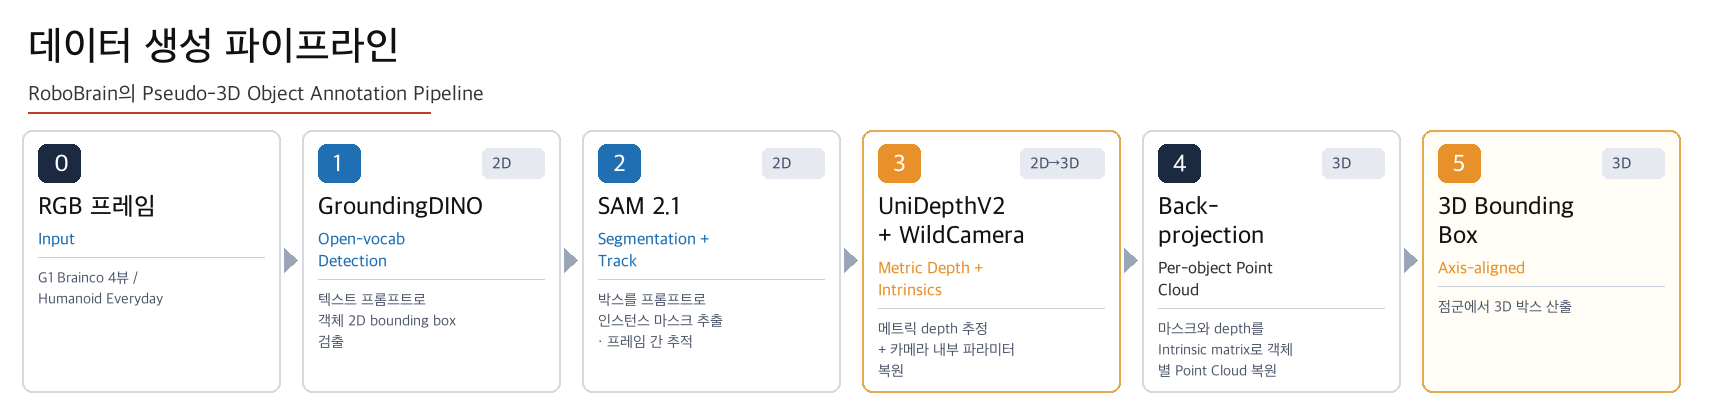
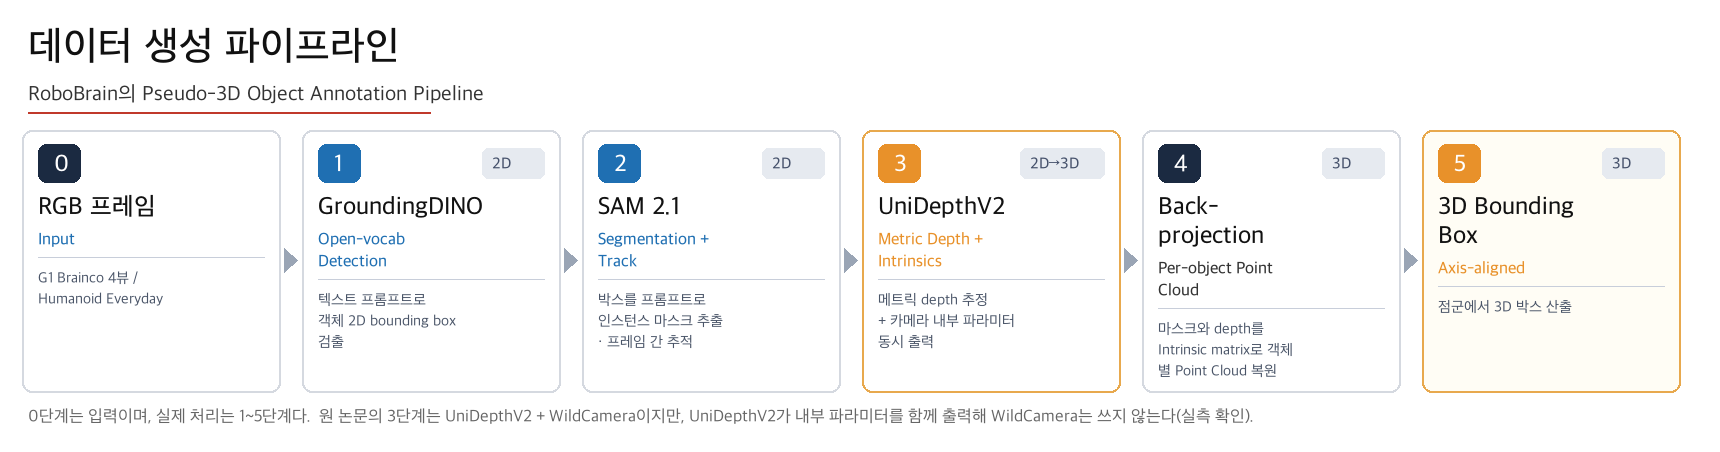
Task3 문서 정확성 수정: 리뷰 지적 10건 반영
3명의 리뷰어가 '처음 접하는 사람 / 구버전 잔재 / 문서-코드 일관성' 관점에서
검토한 결과를 반영했다.

높은 심각도 5건:
 1. 도식과 본문 모순 — 도식에는 'UniDepthV2 + WildCamera'인데 본문은 '안 쓴다'
    -> 도식을 UniDepthV2 단독으로 재생성하고 각주로 미사용 이유 명시.
       setup_env.sh의 WildCamera clone도 제거
 2. 실행 전제 부재 — ~/task3 경로·/data2 데이터·conda env가 하드코딩인데 안내 없음
    -> README에 '전제' 표 신설 (저장소 위치/데이터/conda/ffmpeg)
 3. setup_env.sh가 코드 구성표에 없고, 삭제된 smoke_test.py를 호출해 죽음
    -> 표에 추가(최초 1회 실행)하고 호출 제거
 4. 'config.py에서 조정한다'가 사실이 아님 — 러너가 import하지 않음
    -> 실제 조정 위치(run_review 상수, run_robust 환경변수)를 명시하고
       config.py는 '프리셋 정의·시간 추정 전용, 배선 예정'으로 정정
 5. 검증 결과표가 머리 카메라 값인데 39유닛 대표처럼 읽힘
    -> '머리 카메라 기준' 명시 + 손목 4개 유닛이 0%임을 표 아래 추가

중간 5건: 존재하지 않는 지표(coverage_det 등)를 '분석 스크립트 계산값'으로 표기,
라운드 표기(V_n=r_n=R_n) 대응 명시, 앵커링·시간제한의 적용 범위(R3/R4만) 명시,
improvement-log V6를 완료로 갱신, settings.md의 없는 pbs_r6.sh를 pbs_review.sh로 수정

검증: 없는 파일 참조 0건, 삭제 모듈 import 0건, 코드 10개=README 10개 항목, 문법 OK

diff --git a/task3-3dbbox-pipeline/docs/settings.md b/task3-3dbbox-pipeline/docs/settings.md
@@ -3,9 +3,14 @@
 > 파이프라인이 무엇이고 어떻게 동작하는지는 [pipeline-design.md](pipeline-design.md)에 있다.
 > 이 문서는 **값과 조정 방법**만 다룬다.
 
-## 1. 실행 설정 (`pipeline/config.py`)
+## 1. 실행 설정
 
 전체 데이터셋 적용 시 조정하는 값들이다. 알고리즘이 아니라 **처리량과 산출물 구성**을 바꾼다.
+
+> **현재 상태**: 러너는 아래 값을 직접 읽는다 —
+> `run_review.py` 상단 상수(`STRIDE`, `BC_MAX_FRAMES`, `HE_MAX_FRAMES`)와
+> `run_robust.py`의 환경변수(`BC_PER_TASK`, `HE_PER_TASK`, `FPS`, `BC_CAP`, `HE_CAP`, `CAMS`).
+> `pipeline/config.py`는 **프리셋 정의와 소요 시간 추정 전용**이며 러너와 아직 배선되지 않았다.
 
 | 항목 | 기본 | 효과 |
 |---|---|---|
@@ -32,11 +37,14 @@
 | `robust5` | 6 | 머리 2대 | 태스크당 5개 | 7.4h |
 | `visible_only` | 6 | 머리 2대 | 전수 | 78h (방식 B 없음) |
 
-```python
-from config import PRESETS, RunConfig
-cfg = PRESETS["robust3"]
-cfg = RunConfig(fps=3.0, cameras=["cam_left_high"], amodal=False)   # 직접 지정
-cfg.estimate(n_episodes=4064, avg_sec=12.8)                         # 시간 추정
+```bash
+python pipeline/config.py     # 위 표를 계산해 출력한다
+```
+
+```bash
+# 실제 실행은 환경변수로 조정한다
+BC_PER_TASK=5 HE_PER_TASK=3 FPS=6 CAMS=cam_left_high,cam_right_high \
+  python pipeline/run_robust.py rb1
 ```
 
 ## 2. 태스크별 프로파일 (`pipeline/profiles.py`)
@@ -46,14 +54,22 @@ cfg.estimate(n_episodes=4064, avg_sec=12.8)                         # 시간 추
 
 ### 기준 프로파일
 
+`R2`·`R3`·`R4`는 **각 개선 라운드에서 확정된 설정 묶음**의 이름이다
+(라운드 2·3·4 → 결과 폴더 `review/r2`·`r3`·`r4`. 최종 산출은 `review/r6`).
+
 | 옵션 | R2 (기본) | R3 | R4 |
 |---|---|---|---|
 | `filter_pct` | (10,90) | (2,98) | (10,90) |
 | `filter_mad` | 1.5 | 3.0 | 1.5 |
 | `components` | largest | same_depth | same_depth |
 | `use_distractors` | True | False | False |
+| `anchor_prop` | **False** | True | True |
+| `prop_limit_sec` | **0 (무제한)** | 0 | 1.0 |
 | `mirror_z` | False | True | True |
 | `iou_bonus` | 0.3 | 0.3 | 0.45 |
+
+전파 앵커링(`anchor_prop`)과 시간 제한(`prop_limit_sec`)은 **R3·R4 프로파일에서만** 켜진다.
+R2를 쓰는 태스크(오레오·루빅스·사과·충전기·치약·Articulated·Basic)는 적용되지 않는다.
 
 ### 태스크 지정
 
@@ -97,7 +113,8 @@ cfg.estimate(n_episodes=4064, avg_sec=12.8)                         # 시간 추
 - job 내부 재시도 루프 + 결과 파일 존재 확인 → **중단 시 이어서 진행**
 
 ```bash
-qsub -q pleiades1 -l select=1:ncpus=4:ngpus=1 -l walltime=05:00:00 pipeline/pbs_r6.sh
+qsub -q pleiades1 -l select=1:ncpus=4:ngpus=1 -l walltime=05:00:00 \
+     -v KIND=all,RND=r7 pipeline/pbs_review.sh
 qstat -u <user>
 ```
 

diff --git a/task3-3dbbox-pipeline/docs/pipeline-design.md b/task3-3dbbox-pipeline/docs/pipeline-design.md
@@ -59,12 +59,17 @@
 라운드2에서 승인 프레임의 7.5%가 유령이었다. 원인은 마스크 전파가
 **자기 출력으로 자기 탐색창을 갱신**하는 닫힌 고리였다(창 면적 161,839 → 2,112px², 85프레임).
 
-| 조치 | 내용 |
-|---|---|
-| 앵커링 | 전파 탐색창을 **마지막 실검출**에 고정. 되먹임 고리 자체를 끊는다(임계값 불필요) |
-| 시간 제한 | 실검출 없이 1초 넘기면 전파 중단 |
-| 크기 검증 | 이력 대각 대비 0.55~1.8배 밖이면 기각 |
-| 계측 | `coverage_det` — 전파 승인을 뺀 실관측 비율. 기존 지표는 83% 유령을 0.98로 보고했다 |
+| 조치 | 내용 | 적용 범위 |
+|---|---|---|
+| 앵커링 | 전파 탐색창을 **마지막 실검출**에 고정. 되먹임 고리 자체를 끊는다 | R3·R4 프로파일 |
+| 시간 제한 | 실검출 없이 1초 넘기면 전파 중단 | R4 프로파일 |
+| 크기 검증 | 전파 박스가 이력 대각 대비 과대·과소면 기각 | 해당 옵션을 켠 태스크 |
+
+R2 프로파일 태스크는 위 조치가 적용되지 않는다. 그 태스크들은 유령이 문제되지 않았고,
+전역으로 적용했을 때 오히려 정상 구간이 잘렸기 때문이다([improvement-log](improvement-log.md) 참조).
+
+> 유령 계측 지표(`coverage_det` 등)는 진단 과정에서 별도 분석 스크립트로 계산했던 값이며,
+> 현재 러너의 `stats.json`에는 `coverage`와 `coverage_B`만 기록된다.
 
 ## 6. 검출 프롬프트
 

diff --git a/task3-3dbbox-pipeline/docs/improvement-log.md b/task3-3dbbox-pipeline/docs/improvement-log.md
@@ -2,6 +2,9 @@
 
 > 현행 설계는 [pipeline-design.md](pipeline-design.md)에 있다. 이 문서는 **왜 그렇게 됐는지**의 기록이다.
 > 각 라운드는 "구현 → 15개 대표 실행 → 육안 검증 → 원인 진단 → 수정"의 순환이다.
+>
+> **표기**: `V2`(개선 버전) = 라운드 2 = 결과 폴더 `review/r2` = 프로파일 `R2`.
+> 최종 산출은 `review/r6`이고, robustness 실행 결과는 `robust/rb1`이다.
 
 ## 요약
 
@@ -13,7 +16,7 @@
 | V3 | target object 개념, 2방식 동시산출, HE 대표 재선정 | charger 오검출 해결(50,482px→6×6×2cm) |
 | V4 | 스케일 불변 게이트, np.roll 버그 수정 | HE 7/7 개선 (bottle 13%→79%, towel 21%→100%) |
 | V5 | 전파 앵커링, 가림 판정 재정초, 부속물 복원 | PickDrink 0%→100%, 꽃 줄기 포함 |
-| **V6** | **V5의 과한 완화를 되돌림 + 유령 강화** | 진행 중 |
+| **V6** | **V5의 과한 완화를 되돌림 + 태스크별 프로파일** | **완료 — 15태스크 39유닛 검증** |
 
 ## 라운드별 상세
 
@@ -59,7 +62,7 @@
 **부수 발견**: 승인 7,232프레임 중 이력 반영이 **972건(13.4%)뿐**이고
 **6,143건(84.9%)이 가림 오판으로 차단**됐다. 이것이 방식 B가 실제보다 작았던 이유다.
 
-### V6 — 과한 완화를 되돌림 (현재)
+### V6 — 과한 완화를 되돌림 (현행)
 
 **증상**: V5에서 얇은 부속물(토끼 귀·꽃 줄기)을 살리려 점군 필터를 완화했더니
 **잘 되던 것이 무너졌다**.

diff --git a/task3-3dbbox-pipeline/docs/generalization.md b/task3-3dbbox-pipeline/docs/generalization.md
@@ -38,6 +38,9 @@
 
 정답이 없으므로 자동 지표로 **사람이 볼 표본을 고른다.**
 
+> 아래 지표는 진단 과정에서 **별도 분석 스크립트로 계산**한 것이며, 현재 러너의
+> `stats.json`에는 `coverage`·`coverage_B`만 기록된다. 대량 실행 전에 러너에 배선해야 한다.
+
 | 신호 | 의미 |
 |---|---|
 | `coverage_det` | 전파(추정) 승인을 제외한 실관측 비율 |
@@ -55,8 +58,10 @@
 
 ## 5. 전 데이터 적용 절차 (계획)
 
-1. **robustness 검증** — 태스크당 3~5 에피소드로 254개 태스크 전부 실행(4.5~7.4시간).
-   태스크당 1개에서 3~5개로 늘려 에피소드 간 편차를 본다.
+1. **robustness 검증** — 태스크당 3~5 에피소드로 실행해 에피소드 간 편차를 본다.
+   단 HE는 현재 **카테고리 대표의 프롬프트를 그 카테고리 전체에 적용**한다
+   (예: Basic 카테고리의 모든 태스크를 "pink round toy"로 검출).
+   태스크별 프롬프트는 아래 '남은 과제'의 target object 목록 작업이 선행돼야 한다.
 2. **위험 태스크 식별** — `det_margin`이 낮은 태스크를 목록화해 우선 검토한다.
 3. **본 실행** — `fast` 프리셋(3fps, 머리 1대) 기준 25시간. 필요에 따라 조정.
 4. **표본 검토** — 자동 분류에서 '의심'으로 나온 것만 태스크당 2건씩 육안 확인.
